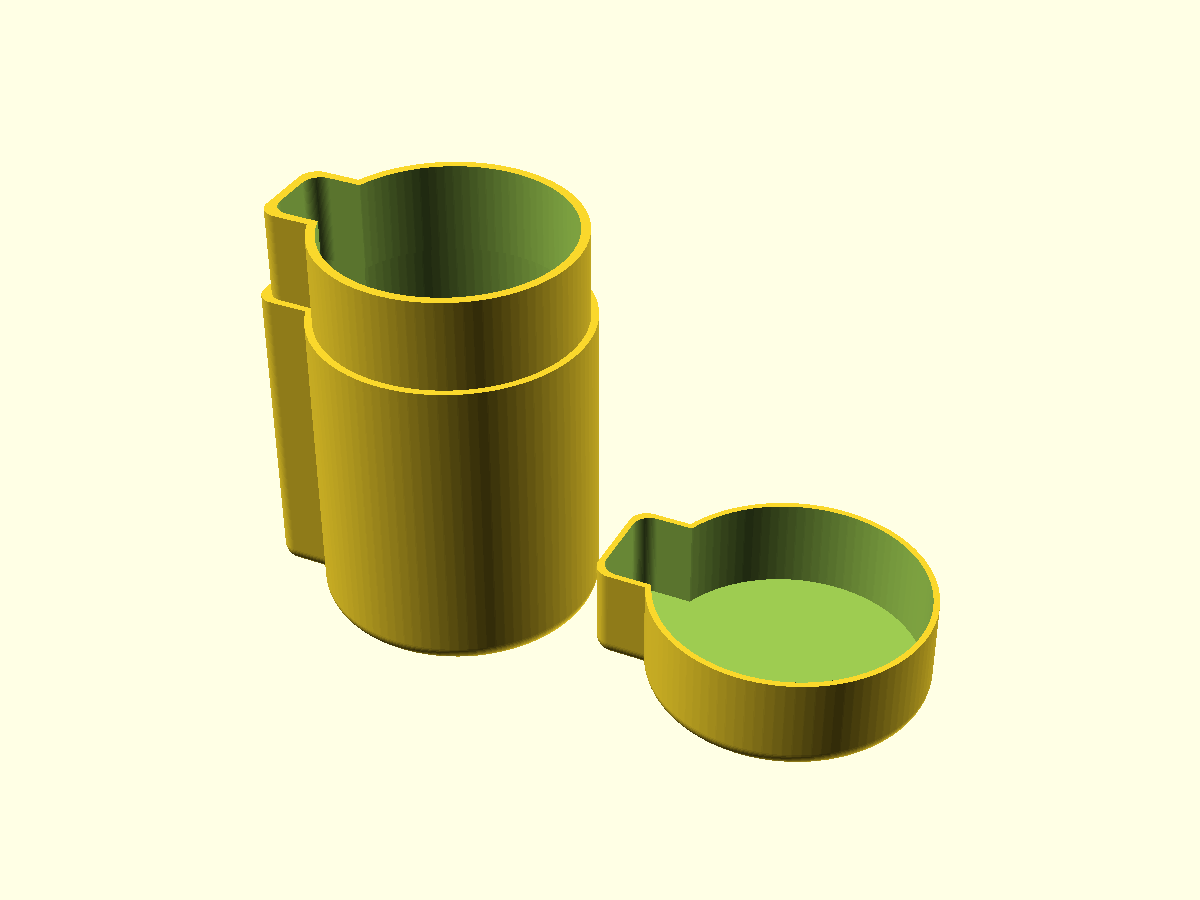
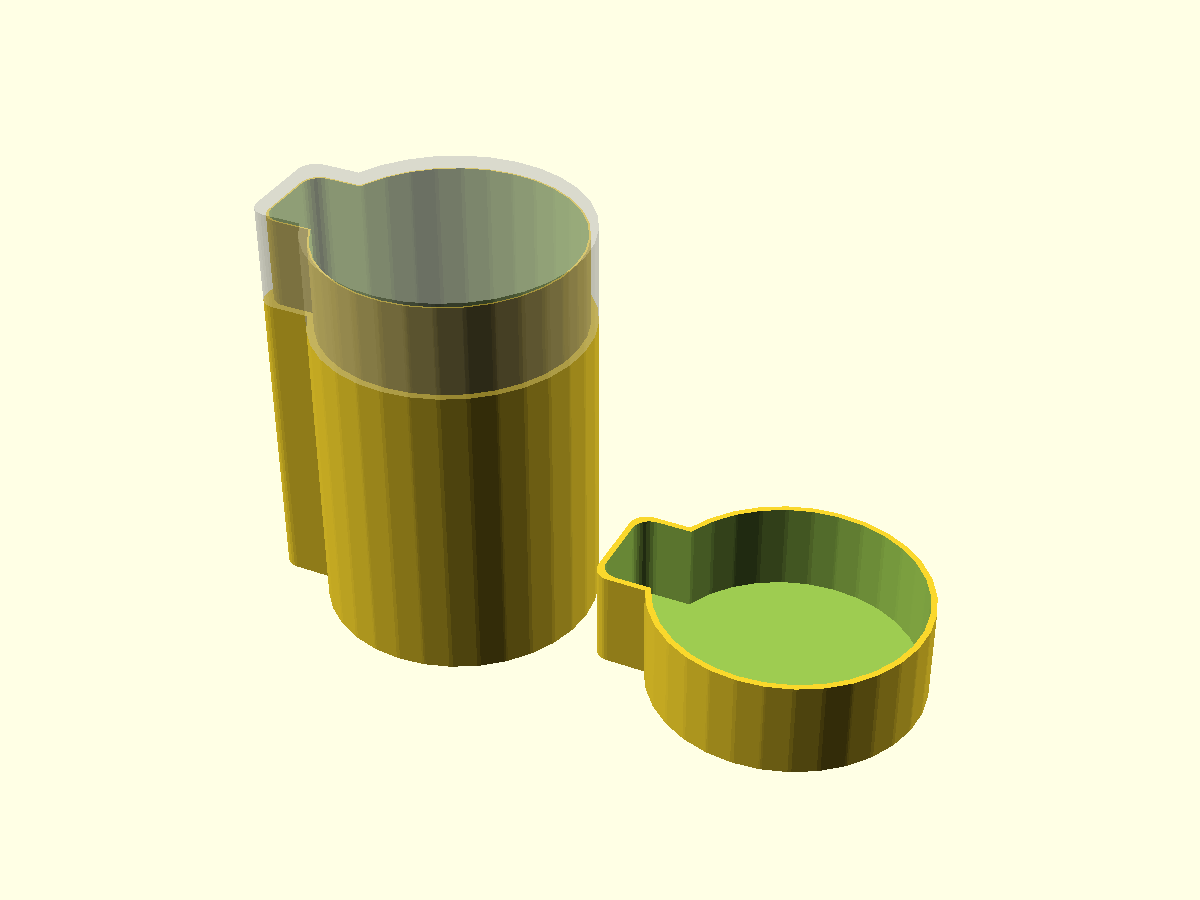
fix(container): make inner cavity continuous floor to rim
The seat-band cavity step blocked the porridge box from reaching the
rim. One continuous inner sweep replaces the stepped cavity; the seat
band wall is now neck_inset thick. Lid and outer neck step unchanged.

diff --git a/CHANGELOG.md b/CHANGELOG.md
@@ -1,5 +1,18 @@
 # Changelog
 
+## [0.8.3] - 2026-09-15
+
+- **why:** The porridge box must slide through the full inner space, so the seat-band ledge had to go
+- **model:** openrouter/z-ai/glm-5.3-flash
+- **tags:** container, cavity, neck, continuity
+
+### Changed
+
+- `travel_porage_container` in `drawings/container/travel-porage-container.scad`: the internal cavity is now one continuous `inner` sweep from floor top to rim; the inward neck-cavity step at the seat line is removed
+- In the lid-seat band the wall is now `neck_inset` thick instead of `wall_t`; the outer neck step and the lid are unchanged
+- Removed the obsolete pocket-vs-neck-inset assert and the `neck_cavity` silhouette; updated header comments
+- Regenerated `previews/container/travel-porage-container.png`
+
 ## [0.8.2] - 2026-09-13
 
 - **why:** Drop the snap bead: the neck groove never rendered reliably and the feature cost more than it delivered
